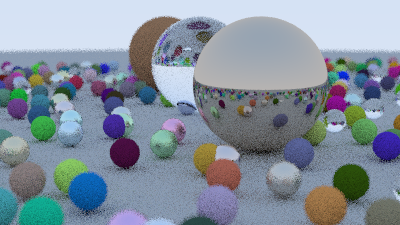
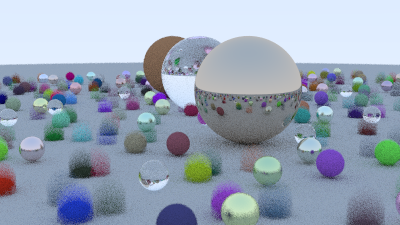
Impl motion blur / spacetime ray-tracing.

diff --git a/src/headers/world_objects/sphere.h b/src/headers/world_objects/sphere.h
@@ -3,11 +3,20 @@
 class WOSphere : public WorldObject
 {
 public:
-	WOSphere(PointVec3 sphC, double sphR, std::shared_ptr<Material> assignMat) : sphereCenter(sphC), sphereRadius(sphR), sphereMaterial(assignMat) {}
+	// Stationary sphere.
+	WOSphere(PointVec3 sphC, double sphR, std::shared_ptr<Material> assignMat) : initialSphereCenter(sphC), sphereRadius(sphR), sphereMaterial(assignMat), isMoving(false) {}
+
+	// Moving sphere.
+	WOSphere(PointVec3 sphC, PointVec3 finalC, double sphR, std::shared_ptr<Material> assignMat) : initialSphereCenter(sphC), sphereRadius(sphR), sphereMaterial(assignMat), isMoving(true) 
+	{
+		centerVec = finalC - initialSphereCenter;
+	}
+
 
 	virtual bool checkHit(const Ray& inputRay, Interval validInterval, HitRecord& hitRec) const override
 	{
-		Vec3 sphereCenterToRayOriginDir = inputRay.getRayOrigin() - sphereCenter;
+		// Alter sphereCenter based on the ray's time.
+		Vec3 sphereCenterToRayOriginDir = inputRay.getRayOrigin() - (isMoving ? moveSphere(inputRay.getRayTime()) : initialSphereCenter);
 		// Quadratic coeffs: a = b . b, b = 2b . (A - C), c = (A - C) . (A - C) - r^2.
 		double a{ inputRay.getRayDirection().computeMagnitudeSquared() };
 		double half_b{ computeDotProduct(sphereCenterToRayOriginDir, inputRay.getRayDirection()) };
@@ -27,7 +36,7 @@ public:
 		}
 		hitRec.hitRoot = solutionRoot;
 		hitRec.hitPoint = inputRay.getPointOnRayAt(hitRec.hitRoot);
-		Vec3 outwardNormal = (hitRec.hitPoint - sphereCenter) / sphereRadius;
+		Vec3 outwardNormal = (hitRec.hitPoint - initialSphereCenter) / sphereRadius;
 		hitRec.setFaceNormal(inputRay, outwardNormal);
 		hitRec.hitMaterial = sphereMaterial;
 
@@ -36,7 +45,14 @@ public:
 
 
 private:
-	PointVec3 sphereCenter;
+	PointVec3 initialSphereCenter;
+	Vec3 centerVec;
 	double sphereRadius;
 	std::shared_ptr<Material> sphereMaterial;
+	bool isMoving;
+
+	PointVec3 moveSphere(double currTime) const
+	{
+		return (initialSphereCenter + (currTime * centerVec));
+	}
 };

diff --git a/src/headers/base/camera.h b/src/headers/base/camera.h
@@ -167,14 +167,9 @@ private:
 				{
 					for (int pixelX{ 0 }; pixelX < jitterSqrt; ++pixelX)
 					{
-						double offsetX{ (pixelX + UGenRNGDouble()) / jitterSqrt };
-						double offsetY{ (pixelY + UGenRNGDouble()) / jitterSqrt };
-
-						PointVec3 samplePoint{ topLeftPixelLocation + ((i + offsetX) * viewportDeltaX) + ((j + offsetY) * viewportDeltaY) };
-						Vec3 rayOrigin = (defocusAngle <= 0) ? cameraCenter : defocusDiskSample();
-						Vec3 rayDirection = samplePoint - rayOrigin;
-						Ray primaryRay(rayOrigin, rayDirection);
-						pixelColor += computePixelColor(primaryRay, maxRayBouncesDepth, mainWorld);
+						Ray generatedRay{ generateRay(pixelX, pixelY, i, j) };
+						
+						pixelColor += computePixelColor(generatedRay, maxRayBouncesDepth, mainWorld);
 					}
 				}
 				pixelColor /= jitterSamplesAA;
@@ -228,6 +223,21 @@ private:
 	{
 		Vec3 randV{ genRandVec3UnitDisk() };
 		return cameraCenter + (randV[0] * defocusDiskUX) + (randV[1] * defocusDiskVY);
+	}
+
+	Ray generateRay(int pixelX, int pixelY, int i, int j) const
+	{
+		double offsetX{ (pixelX + UGenRNGDouble()) / jitterSqrt };
+		double offsetY{ (pixelY + UGenRNGDouble()) / jitterSqrt };
+
+		PointVec3 samplePoint{ topLeftPixelLocation + ((i + offsetX) * viewportDeltaX) + ((j + offsetY) * viewportDeltaY) };
+		Vec3 rayOrigin = (defocusAngle <= 0) ? cameraCenter : defocusDiskSample();
+		Vec3 rayDirection = samplePoint - rayOrigin;
+
+		// Motion blur.
+		double rayTime{ UGenRNGDouble() };
+
+		return Ray(rayOrigin, rayDirection, rayTime);
 	}
 };
 

diff --git a/src/headers/base/util.h b/src/headers/base/util.h
@@ -98,7 +98,7 @@ inline void UPrintSuccessLog(
 #include "ray.h"
 #include "worldObject.h"
 #include "worldObjectList.h"
-#include "../world_objects/WOSphere.h"
+#include "../world_objects/sphere.h"
 #include "material.h"
 #include "../materials/lambertian.h"
 #include "../materials/metal.h"
@@ -107,11 +107,11 @@ inline void UPrintSuccessLog(
 
 // CONSTS
 constexpr bool USE_MT{ true };
-constexpr int AA_NUM_SAMPLES{ 10 };
-constexpr int MAX_RAY_BOUNCES{ 10 };
-constexpr double VERTICAL_FOV{ 20 };
-constexpr int RES_WIDTH_PIXELS{ 400 };
-constexpr double CAM_DEFOCUS_ANGLE{ 0.6 };
+constexpr int AA_NUM_SAMPLES{ 150 };
+constexpr int MAX_RAY_BOUNCES{ 150 };
+constexpr double VERTICAL_FOV{ 25 };
+constexpr int RES_WIDTH_PIXELS{ 1920 };
+constexpr double CAM_DEFOCUS_ANGLE{ 0.2 };
 constexpr double CAM_FOCUS_DIST{ 10 };
 
 const Vec3 CAM_LOOKFROM_VEC(13, 2, 3);

diff --git a/src/headers/base/ray.h b/src/headers/base/ray.h
@@ -5,25 +5,18 @@ class Ray
 public:
 	Ray() {}
 
-	Ray(const PointVec3& rayO, const Vec3& rayD) : rayOrigin(rayO), rayDirection(rayD) {}
+	Ray(const PointVec3& rayO, const Vec3& rayD, double rayT) : rayOrigin(rayO), rayDirection(rayD), rayTime(rayT) {}
 
-	PointVec3 getRayOrigin() const
-	{
-		return rayOrigin;
-	}
+	PointVec3 getRayOrigin() const { return rayOrigin; }
 
-	PointVec3 getRayDirection() const
-	{
-		return rayDirection;
-	}
+	PointVec3 getRayDirection() const { return rayDirection; }
 
-	PointVec3 getPointOnRayAt(double t) const
-	{
-		return rayOrigin + (t * rayDirection);
-	}
+	PointVec3 getPointOnRayAt(double t) const { return rayOrigin + (t * rayDirection); }
 
+	double getRayTime() const { return rayTime; }
 
 private:
 	PointVec3 rayOrigin;
 	Vec3 rayDirection;
+	double rayTime{ 0 };
 };

diff --git a/src/headers/materials/dielectric.h b/src/headers/materials/dielectric.h
@@ -19,11 +19,11 @@ public:
 
 		if (cannotRefract || computeSchlicksApproxForReflectance(cosineTheta, refractionRatio) > UGenRNGDouble())
 		{
-			scatteredRay = Ray(hitRec.hitPoint, computeReflectionDirection(unitDirectionVec, hitRec.hitNormalVec));
+			scatteredRay = Ray(hitRec.hitPoint, computeReflectionDirection(unitDirectionVec, hitRec.hitNormalVec), inputRay.getRayTime());
 		}
 		else
 		{
-			scatteredRay = Ray(hitRec.hitPoint, computeRefractionDirection(unitDirectionVec, hitRec.hitNormalVec, refractionRatio));
+			scatteredRay = Ray(hitRec.hitPoint, computeRefractionDirection(unitDirectionVec, hitRec.hitNormalVec, refractionRatio), inputRay.getRayTime());
 		}
 
 		return true;

diff --git a/src/headers/materials/metal.h b/src/headers/materials/metal.h
@@ -10,7 +10,7 @@ public:
 	{
 		Vec3 newReflRayDir = computeReflectionDirection(computeUnitVector(inputRay.getRayDirection()), hitRec.hitNormalVec);
 
-		scatteredRay = Ray(hitRec.hitPoint, newReflRayDir + (fuzzFactor * genNormalizedRandVec3UnitSphere()));
+		scatteredRay = Ray(hitRec.hitPoint, newReflRayDir + (fuzzFactor * genNormalizedRandVec3UnitSphere()), inputRay.getRayTime());
 		colorAttenuation = albedoValue;
 		return computeDotProduct(scatteredRay.getRayDirection(), hitRec.hitNormalVec) > 0;
 	}

diff --git a/src/main.cpp b/src/main.cpp
@@ -29,7 +29,10 @@ int main()
 				{
 					Vec3 baseColor{ Vec3::genRandomVec3() * Vec3::genRandomVec3() };
 					sphereMat = std::make_shared<MLambertian>(baseColor);
-					primaryWOL.addToWorld(std::make_shared<WOSphere>(sphereCenter, 0.2f, sphereMat));
+
+					Vec3 finalCenter = sphereCenter + Vec3(0, UGenRNGDouble(0, 0.5f), 0);
+
+					primaryWOL.addToWorld(std::make_shared<WOSphere>(sphereCenter, finalCenter, 0.2f, sphereMat));
 				}
 				// Metal
 				else if (chooseMat < 0.95)

diff --git a/src/headers/materials/lambertian.h b/src/headers/materials/lambertian.h
@@ -10,7 +10,7 @@ public:
 	{
 		Vec3 newReflRayDir{ hitRec.hitNormalVec + genNormalizedRandVec3UnitSphere() };
 		if (newReflRayDir.checkNearZero()) { newReflRayDir = hitRec.hitNormalVec; }
-		scatteredRay = Ray(hitRec.hitPoint, newReflRayDir);
+		scatteredRay = Ray(hitRec.hitPoint, newReflRayDir, inputRay.getRayTime());
 		colorAttenuation = albedoValue;
 		return true;
 	}
